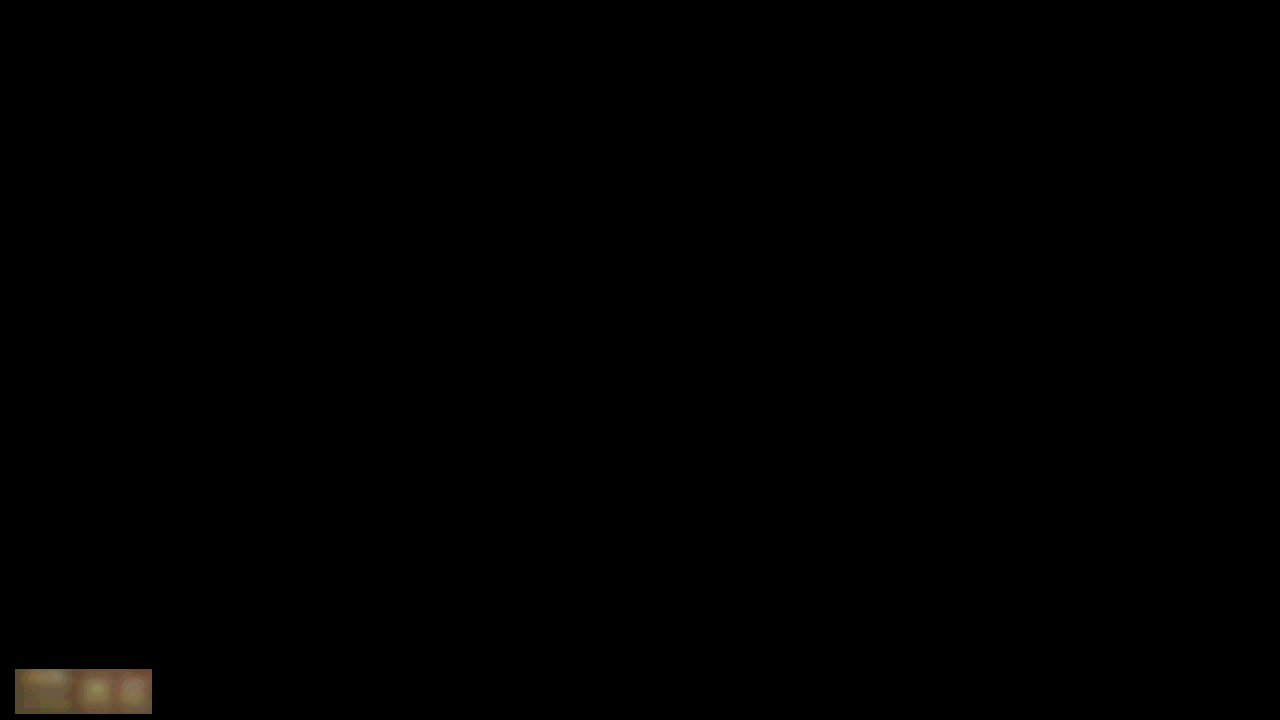
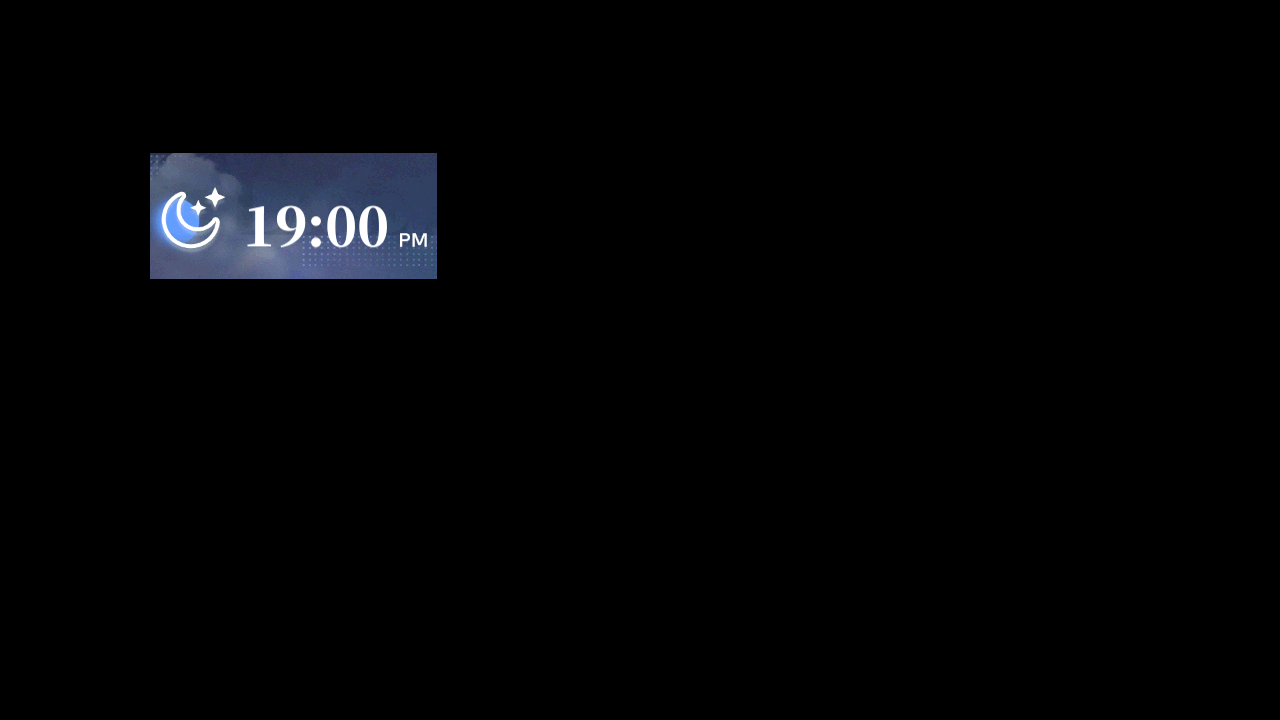
Upd: Dorm menu assets CN

Changed region(s): [[0.0938, 0.2139, 0.3438, 0.3972], [0.0, 0.9167, 0.125, 1.0]]

diff --git a/module/ui/assets.py b/module/ui/assets.py
@@ -29,7 +29,7 @@ DAILY_CHECK = Button(area={'cn': (23, 656, 67, 698), 'en': (23, 656, 67, 698), '
 DORMMENU_CHECK = Button(area={'cn': (261, 487, 334, 587), 'en': (225, 265, 401, 350), 'jp': (203, 248, 409, 450), 'tw': (248, 270, 363, 359)}, color={'cn': (181, 172, 178), 'en': (169, 168, 173), 'jp': (144, 155, 168), 'tw': (194, 187, 184)}, button={'cn': (261, 487, 334, 587), 'en': (225, 265, 401, 350), 'jp': (203, 248, 409, 450), 'tw': (248, 270, 363, 359)}, file={'cn': './assets/cn/ui/DORMMENU_CHECK.png', 'en': './assets/en/ui/DORMMENU_CHECK.png', 'jp': './assets/jp/ui/DORMMENU_CHECK.png', 'tw': './assets/tw/ui/DORMMENU_CHECK.png'})
 DORMMENU_GOTO_ACADEMY = Button(area={'cn': (261, 487, 334, 587), 'en': (225, 265, 401, 350), 'jp': (217, 253, 389, 452), 'tw': (248, 270, 363, 359)}, color={'cn': (181, 172, 178), 'en': (169, 168, 173), 'jp': (154, 162, 171), 'tw': (194, 187, 184)}, button={'cn': (261, 487, 334, 587), 'en': (225, 265, 401, 350), 'jp': (217, 253, 389, 452), 'tw': (248, 270, 363, 359)}, file={'cn': './assets/cn/ui/DORMMENU_GOTO_ACADEMY.png', 'en': './assets/en/ui/DORMMENU_GOTO_ACADEMY.png', 'jp': './assets/jp/ui/DORMMENU_GOTO_ACADEMY.png', 'tw': './assets/tw/ui/DORMMENU_GOTO_ACADEMY.png'})
 DORMMENU_GOTO_DORM = Button(area={'cn': (408, 494, 541, 587), 'en': (568, 289, 725, 423), 'jp': (536, 253, 746, 449), 'tw': (568, 289, 725, 423)}, color={'cn': (167, 148, 137), 'en': (167, 153, 158), 'jp': (154, 143, 152), 'tw': (167, 153, 158)}, button={'cn': (408, 494, 541, 587), 'en': (568, 289, 725, 423), 'jp': (536, 253, 746, 449), 'tw': (568, 289, 725, 423)}, file={'cn': './assets/cn/ui/DORMMENU_GOTO_DORM.png', 'en': './assets/en/ui/DORMMENU_GOTO_DORM.png', 'jp': './assets/jp/ui/DORMMENU_GOTO_DORM.png', 'tw': './assets/tw/ui/DORMMENU_GOTO_DORM.png'})
-DORMMENU_GOTO_MAIN = Button(area={'cn': (408, 494, 541, 587), 'en': (568, 289, 725, 423), 'jp': (568, 289, 725, 423), 'tw': (568, 289, 725, 423)}, color={'cn': (167, 148, 137), 'en': (167, 153, 158), 'jp': (167, 153, 158), 'tw': (167, 153, 158)}, button={'cn': (15, 669, 152, 714), 'en': (401, 608, 889, 686), 'jp': (401, 608, 889, 686), 'tw': (401, 608, 889, 686)}, file={'cn': './assets/cn/ui/DORMMENU_GOTO_MAIN.png', 'en': './assets/en/ui/DORMMENU_GOTO_MAIN.png', 'jp': './assets/jp/ui/DORMMENU_GOTO_MAIN.png', 'tw': './assets/tw/ui/DORMMENU_GOTO_MAIN.png'})
+DORMMENU_GOTO_MAIN = Button(area={'cn': (261, 487, 334, 587), 'en': (568, 289, 725, 423), 'jp': (568, 289, 725, 423), 'tw': (568, 289, 725, 423)}, color={'cn': (181, 172, 178), 'en': (167, 153, 158), 'jp': (167, 153, 158), 'tw': (167, 153, 158)}, button={'cn': (150, 153, 437, 279), 'en': (401, 608, 889, 686), 'jp': (401, 608, 889, 686), 'tw': (401, 608, 889, 686)}, file={'cn': './assets/cn/ui/DORMMENU_GOTO_MAIN.png', 'en': './assets/en/ui/DORMMENU_GOTO_MAIN.png', 'jp': './assets/jp/ui/DORMMENU_GOTO_MAIN.png', 'tw': './assets/tw/ui/DORMMENU_GOTO_MAIN.png'})
 DORMMENU_GOTO_MEOWFFICER = Button(area={'cn': (634, 512, 749, 569), 'en': (983, 280, 1073, 348), 'jp': (867, 254, 1078, 450), 'tw': (964, 273, 1061, 426)}, color={'cn': (144, 153, 176), 'en': (199, 182, 163), 'jp': (192, 164, 136), 'tw': (199, 178, 153)}, button={'cn': (634, 512, 749, 569), 'en': (983, 280, 1073, 348), 'jp': (867, 254, 1078, 450), 'tw': (964, 273, 1061, 426)}, file={'cn': './assets/cn/ui/DORMMENU_GOTO_MEOWFFICER.png', 'en': './assets/en/ui/DORMMENU_GOTO_MEOWFFICER.png', 'jp': './assets/jp/ui/DORMMENU_GOTO_MEOWFFICER.png', 'tw': './assets/tw/ui/DORMMENU_GOTO_MEOWFFICER.png'})
 DORM_CHECK = Button(area={'cn': (949, 600, 1005, 654), 'en': (949, 600, 1005, 654), 'jp': (949, 600, 1005, 654), 'tw': (949, 600, 1005, 654)}, color={'cn': (255, 244, 209), 'en': (255, 244, 209), 'jp': (255, 244, 209), 'tw': (255, 244, 209)}, button={'cn': (949, 600, 1005, 654), 'en': (949, 600, 1005, 654), 'jp': (949, 600, 1005, 654), 'tw': (949, 600, 1005, 654)}, file={'cn': './assets/cn/ui/DORM_CHECK.png', 'en': './assets/en/ui/DORM_CHECK.png', 'jp': './assets/jp/ui/DORM_CHECK.png', 'tw': './assets/tw/ui/DORM_CHECK.png'})
 DORM_FEED_CANCEL = Button(area={'cn': (494, 510, 547, 536), 'en': (445, 491, 594, 552), 'jp': (466, 510, 519, 536), 'tw': (484, 509, 557, 540)}, color={'cn': (196, 161, 109), 'en': (240, 200, 125), 'jp': (194, 160, 108), 'tw': (212, 174, 110)}, button={'cn': (494, 510, 547, 536), 'en': (445, 491, 594, 552), 'jp': (466, 510, 519, 536), 'tw': (484, 509, 557, 540)}, file={'cn': './assets/cn/ui/DORM_FEED_CANCEL.png', 'en': './assets/en/ui/DORM_FEED_CANCEL.png', 'jp': './assets/jp/ui/DORM_FEED_CANCEL.png', 'tw': './assets/tw/ui/DORM_FEED_CANCEL.png'})
